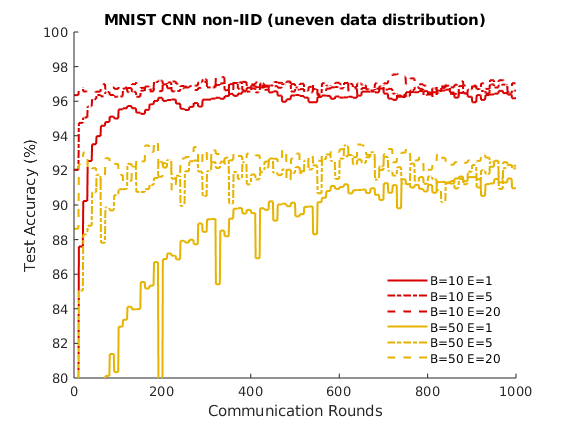
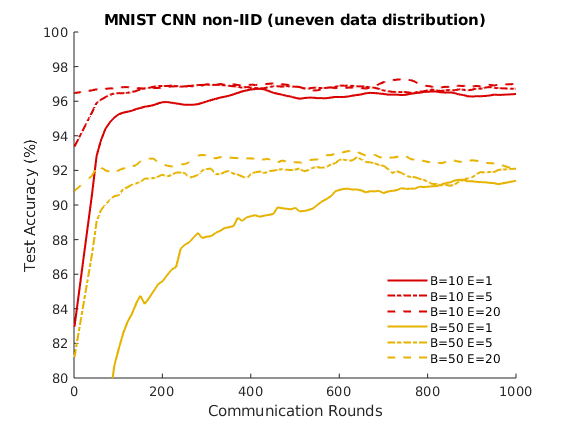
smoothen stefans results

Changed region(s): [[0.1193, 0.1529, 0.9246, 0.8871], [0.1789, 0.8259, 0.2088, 0.8871]]

diff --git a/reproduce/res.m b/reproduce/res.m
@@ -170,6 +170,7 @@ axis([0 1000 80 100]);
 %% Plot Stefan
 
 clear all;
+close all;
 b_idx = [10, 50];
 e_idx = [1, 5, 20];
 
@@ -194,6 +195,10 @@ for b = b_idx
         data = fscanf(fileID,'%f');
         data = repelem(data,10);
         
+        % apply Savitzky-Golay filtering
+        data = sgolayfilt(data,1,81);
+        
+        
         % find first number >= 0.99 accuracy
         if isempty(find(data>=99, 1))
             tab_ud(i) = NaN;
@@ -214,7 +219,7 @@ for b = b_idx
     end
 end    
 
-tab_ud = reshape(tab_ud, 3,3)
+tab_st = reshape(tab_ud, 3,3)
 
 xlabel('Communication Rounds');
 ylabel('Test Accuracy (%)');
@@ -222,3 +227,24 @@ title('MNIST CNN non-IID (uneven data distribution)');
 legend({'B=10 E=1','B=10 E=5','B=10 E=20','B=50 E=1','B=50 E=5','B=50 E=20'},'Location','southeast');
 legend('boxoff');
 axis([0 1000 80 100]);
+
+
+%% test
+clear all;
+filename = 'stefan_results/st_b50e1.txt';
+fileID = fopen(filename,'r');
+data = fscanf(fileID,'%f');
+
+
+for i = 15:99
+    if abs(data(i+1)-data(i)) > 1.5
+        data(i+1) = data(i);
+    end
+end
+
+data = repelem(data,10);
+
+
+t = 1:1000;
+figure(87);
+plot(t,data);
